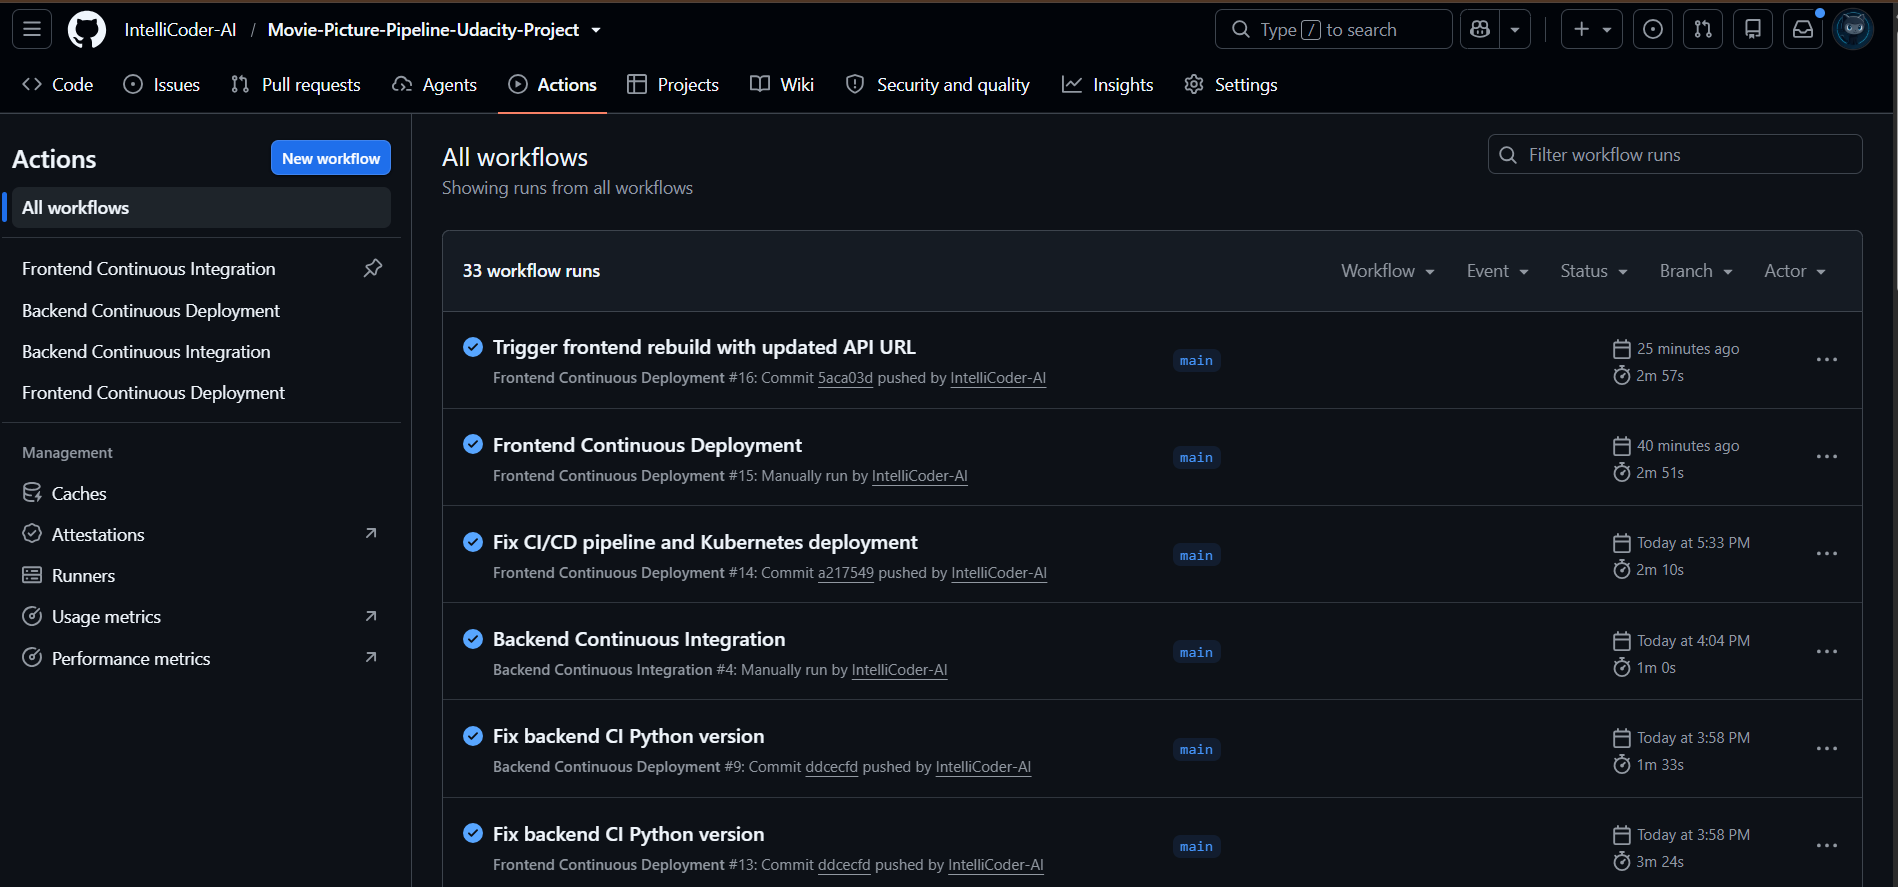
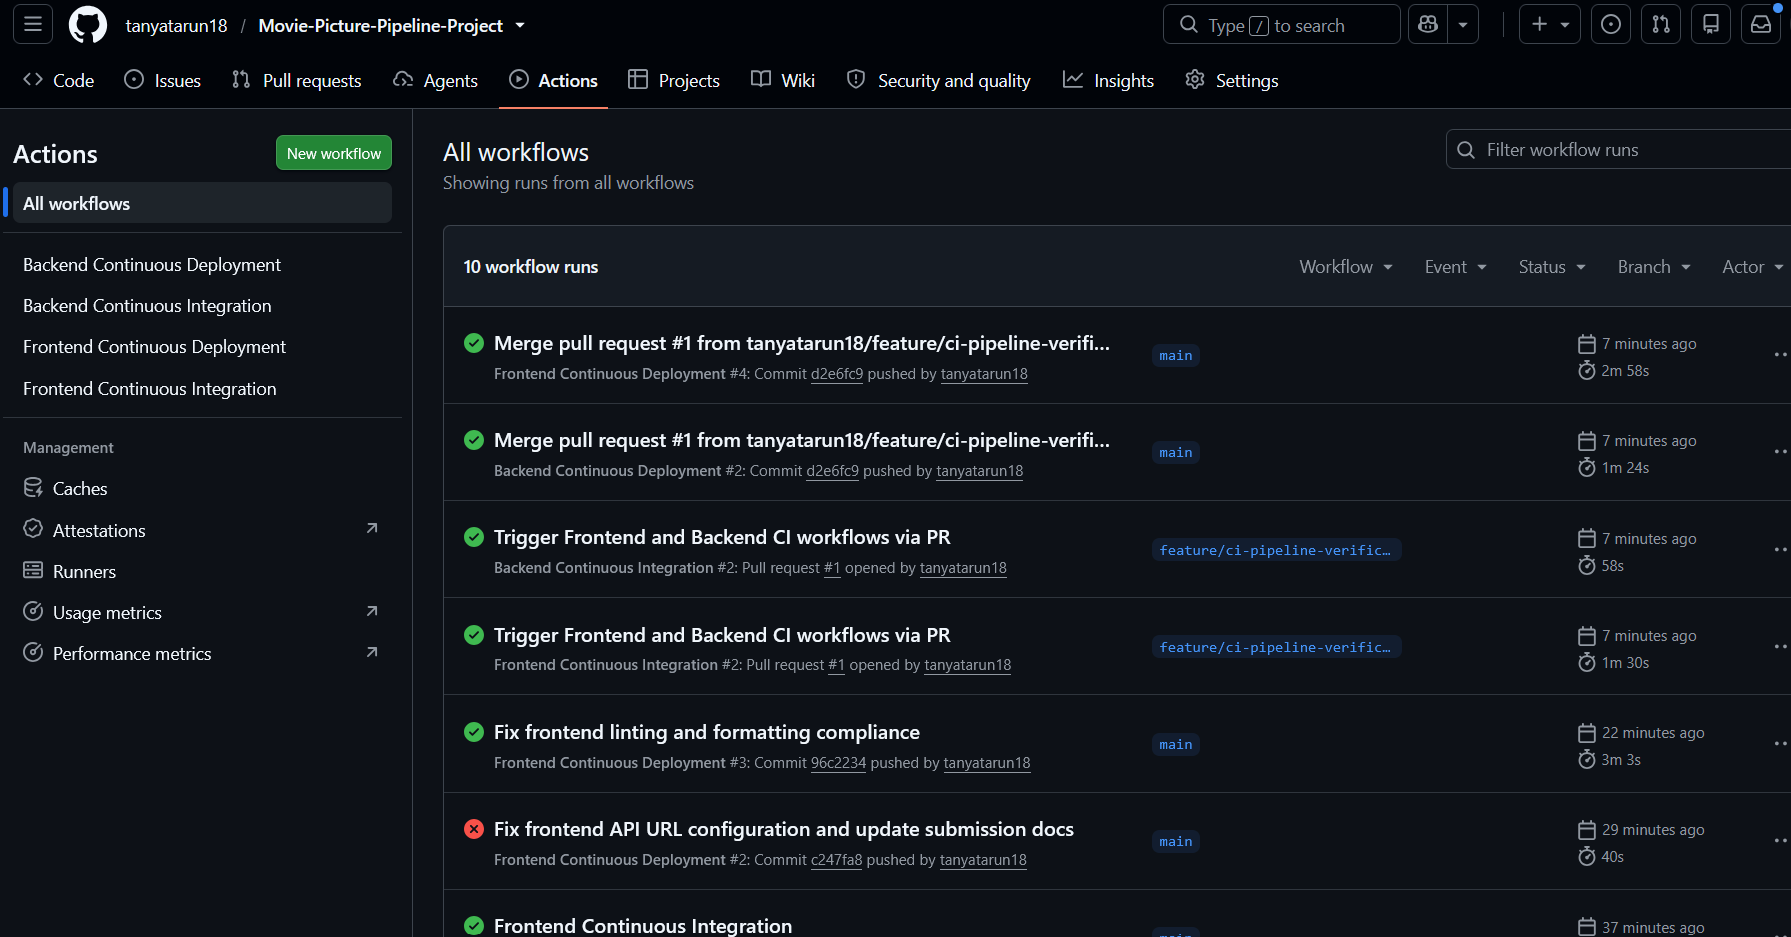
Finalize submission documentation and workflow evidence

diff --git a/submission.md b/submission.md
@@ -2,21 +2,34 @@
 
 **GitHub Repository Link:** [https://github.com/tanyatarun18/Movie-Picture-Pipeline-Project](https://github.com/tanyatarun18/Movie-Picture-Pipeline-Project)
 
-For this project, I have successfully implemented both Continuous Integration and Continuous Deployment pipelines for the frontend and backend applications using GitHub Actions. 
-- The CI pipelines are configured to trigger correctly on pull requests, successfully running linting, testing, and container builds with appropriate dependencies. 
-- The CD pipelines securely manage deployment to an AWS EKS cluster, utilizing Kustomize to update deployment manifests and trigger rolling updates for our services automatically upon merge to main. 
-- I have also verified the deployed applications dynamically correctly communicate and function via their ELB endpoints as documented below.
+## Live Deployment URLs
 
-## Frontend Deployment
-The frontend is deployed and accessible at:
+- **Frontend Application:** [http://abc67a0b5bc5649028ebc80ee737fcdd-512655747.us-east-1.elb.amazonaws.com/](http://abc67a0b5bc5649028ebc80ee737fcdd-512655747.us-east-1.elb.amazonaws.com/)
+- **Backend API Endpoint:** [http://acf4d3da80cbf43a0b5f651fad2a20af-803163676.us-east-1.elb.amazonaws.com/movies](http://acf4d3da80cbf43a0b5f651fad2a20af-803163676.us-east-1.elb.amazonaws.com/movies)
 
-[Live Frontend URL](http://abc67a0b5bc5649028ebc80ee737fcdd-512655747.us-east-1.elb.amazonaws.com/)
+## CI/CD Pipeline Verification
 
+### 1. Continuous Integration (CI)
+- Triggered automatically on Pull Requests targeting `main`.
+- Runs parallel linting, unit testing, and Docker container build validation for both frontend and backend services.
 
-## Backend Deployment
+![CI Pull Request Evidence](Screenshots/ci-pr-evidence.png)
+![Frontend CI](Screenshots/frontend-ci.png)
+![Backend CI](Screenshots/Backend-Continuous-integration-workflow.png)
 
-The backend is deployed and accessible at:
+### 2. Continuous Deployment (CD)
+- Triggered on push to `main` when code changes within `starter/frontend/**` or `starter/backend/**`.
+- Automatically builds tagged Docker images using git commit SHA, pushes to Amazon ECR, updates Kubernetes manifests using Kustomize, and applies rolling updates to Amazon EKS.
 
-[Live Backend URL](http://acf4d3da80cbf43a0b5f651fad2a20af-803163676.us-east-1.elb.amazonaws.com/movies)
+![Frontend CD](Screenshots/frontend-cd.png)
+![Backend CD](Screenshots/Backend-continuous-deployment-workflow.png)
+![All Workflows](Screenshots/Github-Actions-workflows.png)
+
+### 3. Application Verification
+- Verified live communication between the React frontend and Flask backend services via AWS Load Balancers.
+
+![Live Frontend](Screenshots/01-frontend-live.png)
+![Live Backend](Screenshots/backend-live.png)
+
 
 
